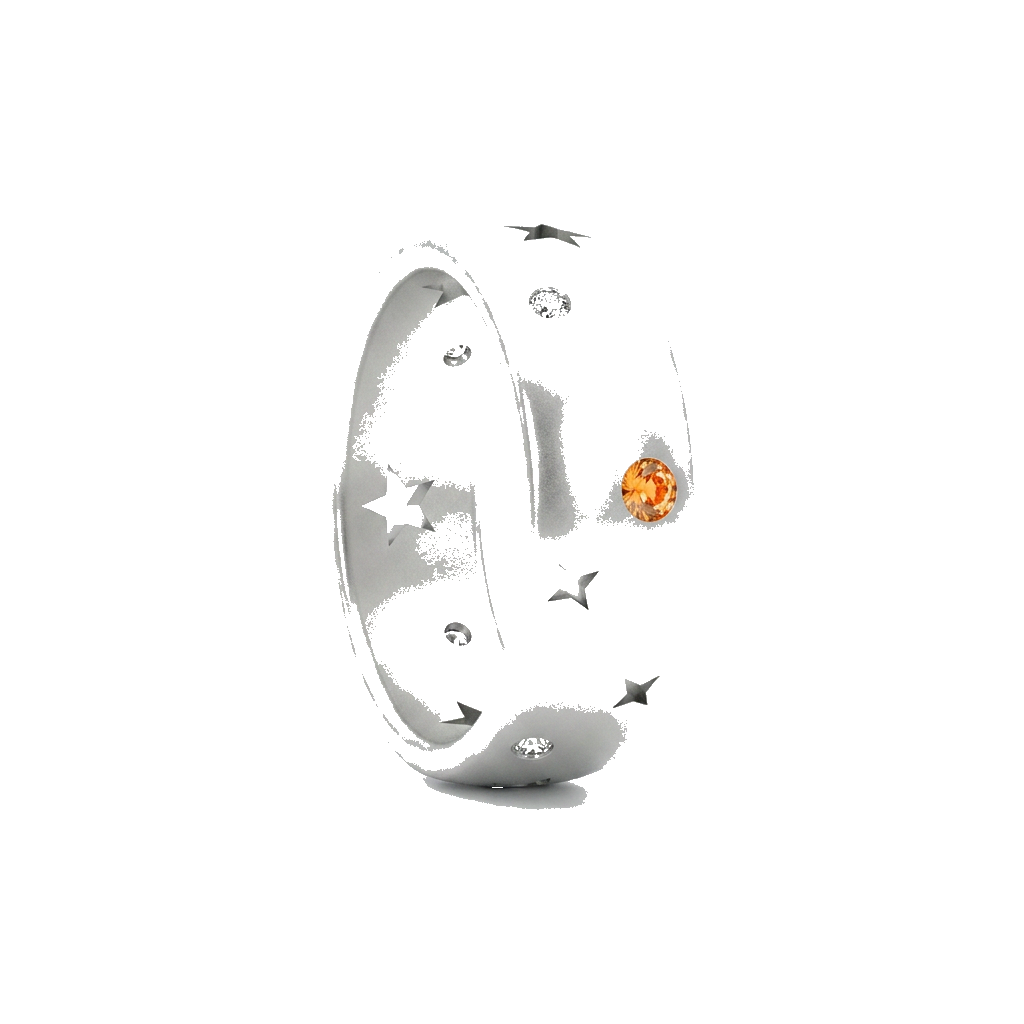
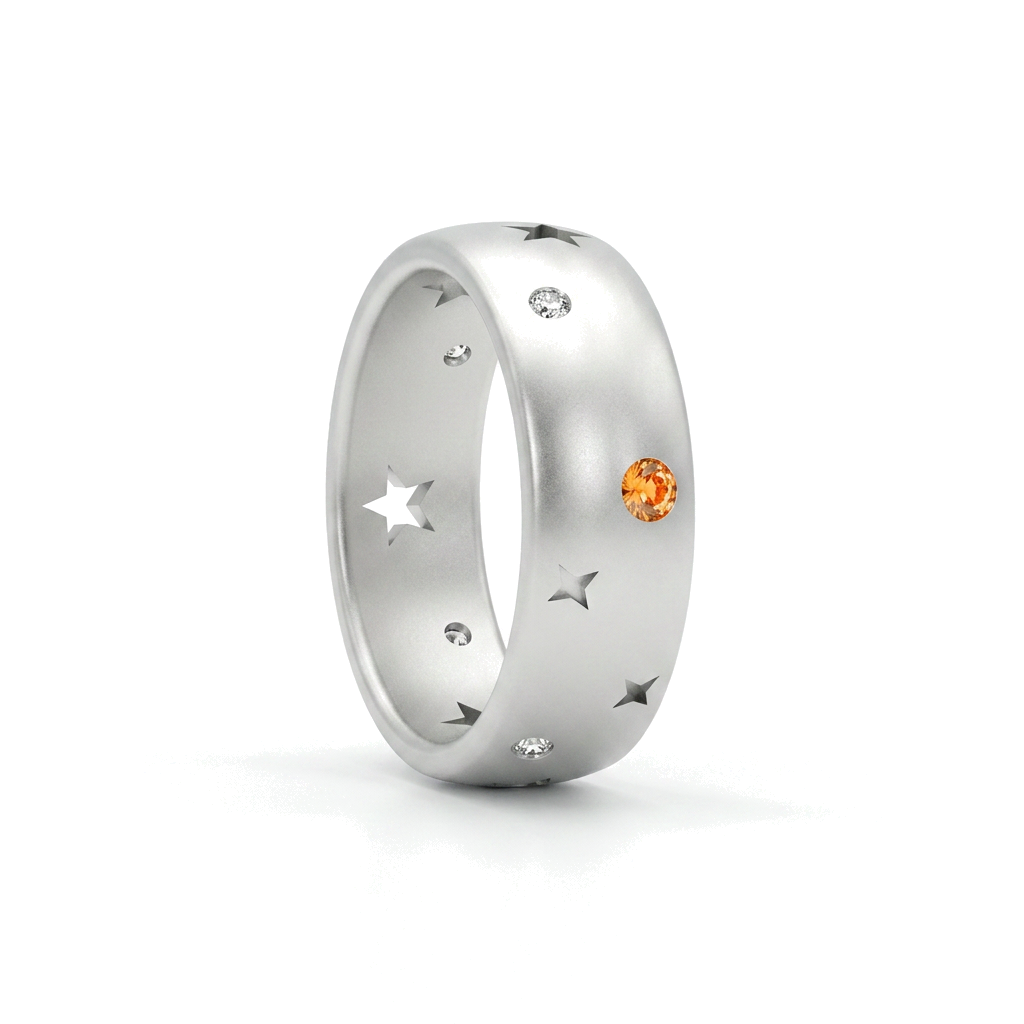
Star Orange: сохранить металл при вырезании фона, только чистый белый.
Flood-fill считал матовое серебро фоном и делал его прозрачным — кэш v43.

Changed region(s): [[0.3125, 0.2188, 0.6875, 0.8125]]

diff --git a/main.js b/main.js
@@ -239,7 +239,7 @@
     initPackagingCarousel();
   }
 
-  var CATALOG_ASSET_VERSION = "42";
+  var CATALOG_ASSET_VERSION = "43";
 
   function productCategoryLabel(product) {
     if (product.category) return product.category;

diff --git a/product/main.js b/product/main.js
@@ -1,5 +1,5 @@
 (function () {
-  var MEDIA_ASSET_VERSION = "42";
+  var MEDIA_ASSET_VERSION = "43";
 
   function mediaSrc(relativePath) {
     return "../../" + relativePath + "?v=" + MEDIA_ASSET_VERSION;